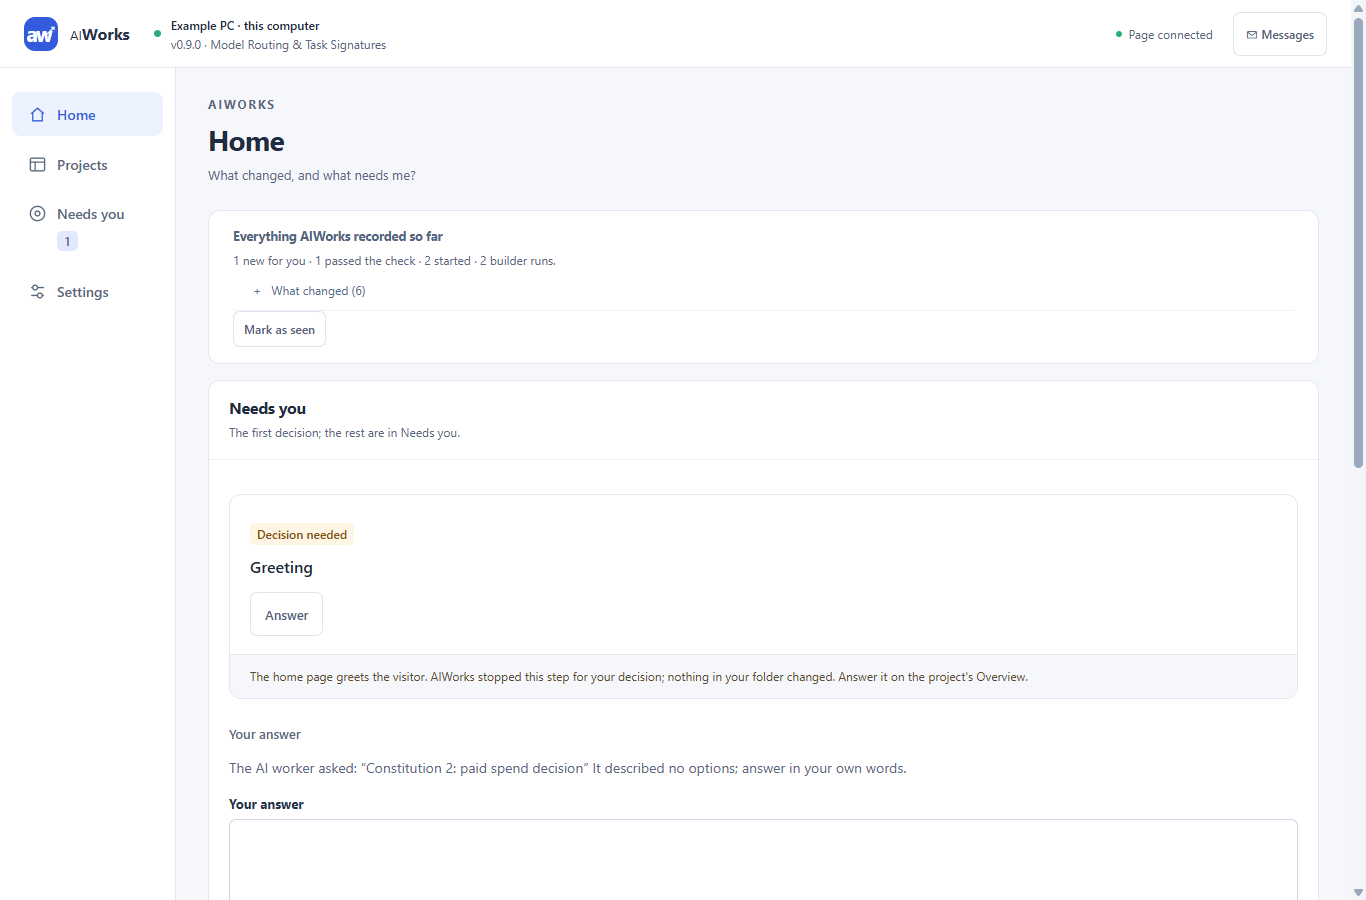
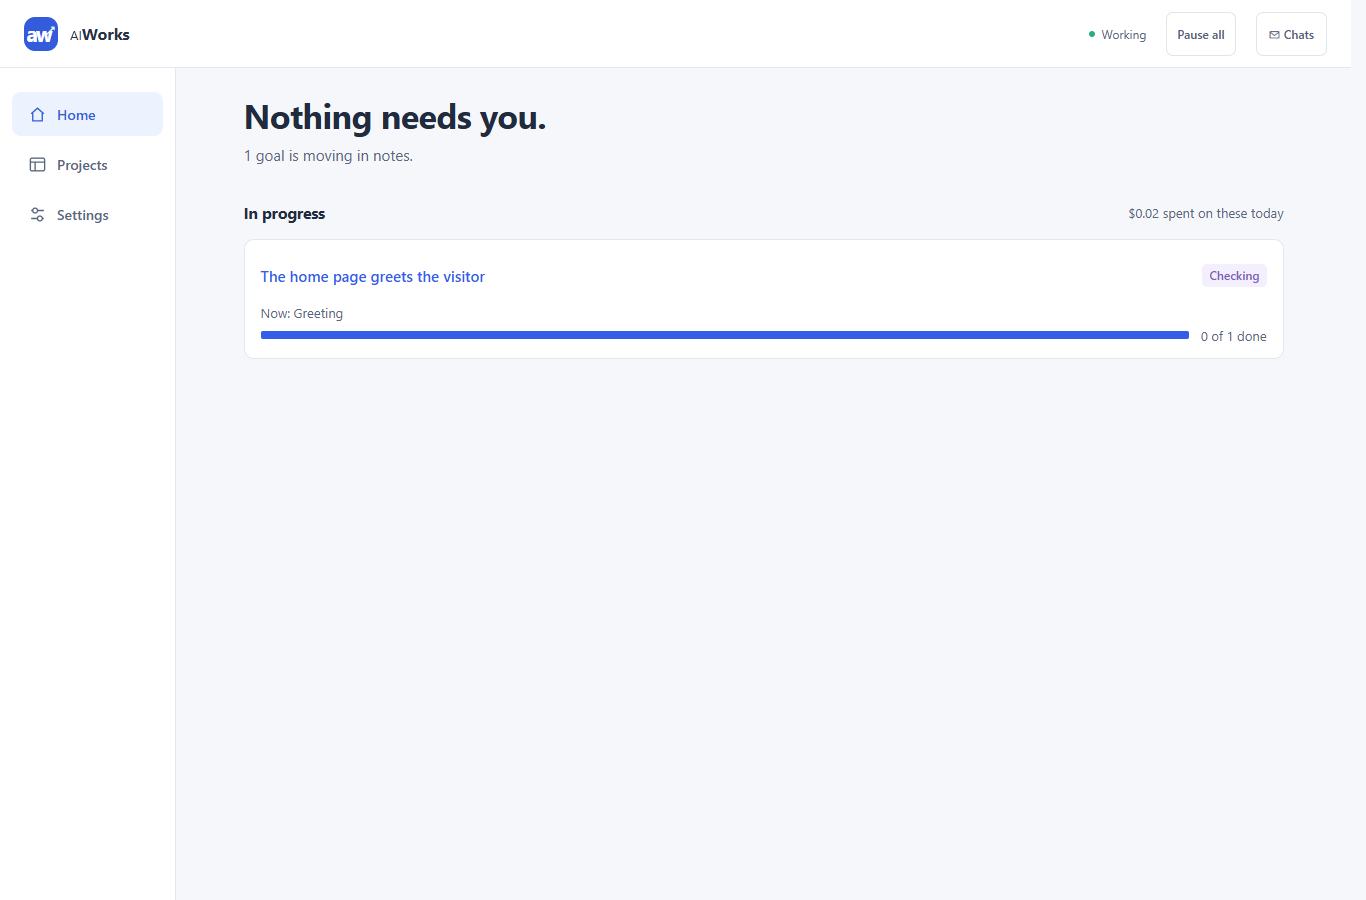
Status and showcase: answer change and goal links are built; screens from ea462d6
STATUS.md still listed changing a Home answer and the goal link as not
built; both landed in 8c1caea and 723502d. The static showcase is
recaptured from the owner journey on ea462d6 (52 steps ok, clean checkout)
and its text follows the current journey: automatic apply with Undo, a
step that decides for itself under AW-017, and local cost per step.

diff --git a/site/index.html b/site/index.html
@@ -27,11 +27,11 @@
 </header>
 
 <main id="content" tabindex="-1">
-  <h1>Plan once, check every result, decide only what needs you</h1>
-  <p class="lead">AIWorks is a manager for AI coding agents that runs on your own Windows computer. You approve a plan; an AI builder does each step in an isolated copy; a fresh AI session checks that exact version; and nothing in your folder changes until you press Apply.</p>
+  <h1>Plan once, check every result, undo any apply</h1>
+  <p class="lead">AIWorks is a manager for AI coding agents that runs on your own Windows computer. You approve a plan; an AI builder does each step in an isolated copy; a fresh AI session checks that exact version; only that checked version reaches your folder, and Undo apply puts the folder back.</p>
 
   <div class="notice" role="note">
-    <p><strong>Synthetic demonstration.</strong> Every screen below was captured from a disposable runtime with two fictional projects, <em>notes</em> (a plain folder) and <em>site</em> (a local Git repository), and a synthetic AI worker that makes no model or network call. The computer name in the header is replaced with “Example PC”.</p>
+    <p><strong>Synthetic demonstration.</strong> Every screen below was captured from a disposable runtime with two fictional projects, <em>notes</em> (a plain folder) and <em>site</em> (a local Git repository), and a synthetic AI worker that makes no model or network call.</p>
     <p>It is not an installation, nobody's real projects appear in it, and this page makes no claim about any installed or running copy of AIWorks.</p>
   </div>
 
@@ -47,19 +47,19 @@
 
   <section class="panel" id="journey" aria-labelledby="journey-title">
     <h2 id="journey-title">The owner journey</h2>
-    <p>The <a href="../docs/design/OWNER_JOURNEY_ACCEPTANCE.md">owner journey acceptance</a> runs 29 checked steps. These are the ones you can see. <span class="label demo">Shown in this demonstration</span> applies to every step in this section.</p>
+    <p>The <a href="../docs/design/OWNER_JOURNEY_ACCEPTANCE.md">owner journey acceptance</a> ran 52 checked steps, all passing. These are the ones you can see. <span class="label demo">Shown in this demonstration</span> applies to every step in this section.</p>
 
     <article class="step" aria-labelledby="s1">
       <div>
         <h3 id="s1">1. Start from nothing</h3>
-        <p>Home answers “What changed, and what needs me?”. With no projects it says so and offers Add project: an idea first, then a folder on this computer.</p>
+        <p>Home answers “What needs me, and what is moving?”. Before any project, nothing needs the owner and nothing is moving. A project is added from Projects: an idea first, then a folder on this computer.</p>
         <ul>
           <li>Confirming a project's rules is a protected owner action. It passed the Windows check that the request came from the owner's browser, not from an AI worker.</li>
           <li><span class="label off">Off by default</span> Add project needs <code>projectConnection.enabled</code>; planning and starting work from the page need <code>coordinator.intake</code>.</li>
         </ul>
       </div>
       <figure>
-        <a href="assets/home-empty.png"><img src="assets/home-empty.png" width="1366" height="900" alt="Home with no projects yet: Needs you says nothing needs you right now, and Projects offers Add project."></a>
+        <a href="assets/home-empty.png"><img src="assets/home-empty.png" width="1366" height="900" alt="Home with no projects yet: Nothing needs you, and nothing is moving right now."></a>
         <figcaption>Home, before any project. Open the image for full size.</figcaption>
       </figure>
     </article>
@@ -93,34 +93,33 @@
 
     <article class="step" aria-labelledby="s3">
       <div>
-        <h3 id="s3">3. Review the checked result, then Apply it yourself</h3>
-        <p>The builder worked in an isolated copy. A separate checker approved that exact version, and Review shows it, named by its commit.</p>
+        <h3 id="s3">3. The checked result is applied, and Undo puts it back</h3>
+        <p>The builder worked in an isolated copy. A separate checker approved that exact version, AIWorks applied it to the folder, and Review shows it, named by its commit.</p>
         <ul>
           <li>Try this version opens the checked pages in a sealed frame that cannot reach the dashboard or the internet. Desktop and phone screenshots of it were taken under the same containment as the workers.</li>
-          <li>Apply refused while the owner had changed the same file and wrote nothing; it then applied and kept an unrelated owner edit.</li>
+          <li>Undo apply put the folder back as it was before the automatic apply. Applying again by hand refused while the owner had changed the same file and wrote nothing; it then applied and kept an unrelated owner edit.</li>
           <li>Undo apply refused while the owner had edited an applied file, then put the folder back byte for byte.</li>
           <li>For the local Git project, Apply refused a dirty working tree, then fast-forwarded the branch; a builder that tried to press Apply from inside its job was refused.</li>
         </ul>
       </div>
       <figure>
         <a href="assets/result-review.png"><img src="assets/result-review.png" width="1366" height="900" alt="Review of a result: ready for your review, checked at a named commit, an Apply button, the checker's verdict and a Try this version panel showing the checked page."></a>
-        <figcaption>A result waiting on Review, with its preview open.</figcaption>
+        <figcaption>A checked result on Review after Undo, ready to apply again, with its preview open.</figcaption>
       </figure>
     </article>
 
     <article class="step" aria-labelledby="s4">
       <div>
-        <h3 id="s4">4. A step stops for your decision</h3>
-        <p>When a step needs the owner, it stops, nothing in the folder changes, and it appears in Needs you and on Home under its project.</p>
+        <h3 id="s4">4. A step decides for itself</h3>
+        <p>A builder that stopped to ask without offering options was sent back once to decide within its plan. It finished, and its result was checked again. Home kept saying that nothing needs the owner while the goal moved.</p>
         <ul>
-          <li>The answer was written on the project's Overview; its draft was kept across navigation.</li>
-          <li>The next builder run received the answer, and its result was checked again.</li>
-          <li>Checked by hand in the acceptance run: answering with the keyboard alone, Tab to Send answer, with a visible focus ring.</li>
+          <li>Routine choices are AIWorks's to make (decision AW-017); only the owner's own sign-in, credentials and payment are the owner's.</li>
+          <li><span class="label code">In the source code</span> A recorded answer can be changed from Home's Decided for you. This journey did not exercise it; it has its own tests.</li>
         </ul>
       </div>
       <figure>
-        <a href="assets/decision.png"><img src="assets/decision.png" width="1366" height="900" alt="Home with one item in Needs you: a decision needed on the Greeting step, with an Answer button and a text field for the answer."></a>
-        <figcaption>Home, with a decision waiting.</figcaption>
+        <a href="assets/decision.png"><img src="assets/decision.png" width="1366" height="900" alt="Home while a goal is checked: Nothing needs you, one goal moving in notes, its Greeting step being checked, and what it cost today."></a>
+        <figcaption>Home while the step is being checked.</figcaption>
       </figure>
     </article>
 
@@ -141,7 +140,7 @@
     <article class="step" aria-labelledby="s6">
       <div>
         <h3 id="s6">6. Alerts, rehearsed</h3>
-        <p>The decision raised an alert. The rehearsal transport recorded it on this computer as it would be sent: nothing was sent and nothing was reported delivered.</p>
+        <p>An alert raised during the journey was recorded by the rehearsal transport on this computer as it would be sent: nothing was sent and nothing was reported delivered.</p>
         <ul>
           <li>Alert rules, a Knowledge fact and the project budget were each saved through the same owner check.</li>
           <li><span class="label reserved">Owner-reserved</span> Real delivery needs a recipient the owner configures. None was configured.</li>
@@ -156,10 +155,10 @@
 
   <section class="panel" id="phone" aria-labelledby="phone-title">
     <h2 id="phone-title">On a phone</h2>
-    <p>Below 960px the navigation moves to the bottom. At a 320px window and a 390px phone, none of the 13 checked screens scrolled sideways.</p>
+    <p>Below 960px the navigation moves to the bottom. At a 320px window and a 390px phone, none of the checked screens scrolled sideways.</p>
     <div class="phones">
       <figure>
-        <a href="assets/phone-home.png"><img src="assets/phone-home.png" width="390" height="844" alt="Home on a 390 pixel phone: what changed, Needs you with nothing waiting, and the notes project with two checked results waiting for review."></a>
+        <a href="assets/phone-home.png"><img src="assets/phone-home.png" width="390" height="844" alt="Home on a 390 pixel phone: Nothing needs you, a link to the coordinator's reply, and both projects quiet and done."></a>
         <figcaption>Home at 390px.</figcaption>
       </figure>
       <figure>
@@ -178,8 +177,7 @@
         <tr><th scope="row">Real notification delivery</th><td data-label="Where it stands"><span class="label reserved">Owner-reserved</span> Needs a recipient and secret references the owner configures.</td></tr>
         <tr><th scope="row">Release destinations and a Publish button</th><td data-label="Where it stands"><span class="label reserved">Owner-reserved</span> Needs a specific grant; the button is not built.</td></tr>
         <tr><th scope="row">Opening the dashboard from another device</th><td data-label="Where it stands"><span class="label reserved">Owner-reserved</span> The dashboard answers on this computer only; remote access is not designed yet.</td></tr>
-        <tr><th scope="row">Model and cost per step for local work</th><td data-label="Where it stands">Not built yet for projects without GitHub. Their project budget does count their work.</td></tr>
-        <tr><th scope="row">A study with a person</th><td data-label="Where it stands">Not done. The journey is a scripted check by an AI implementer, not a usability study.</td></tr>
+                <tr><th scope="row">A study with a person</th><td data-label="Where it stands">Not done. The journey is a scripted check by an AI implementer, not a usability study.</td></tr>
         <tr><th scope="row">Real AI workers and their limits</th><td data-label="Where it stands">Not exercised: the demonstration's worker is synthetic.</td></tr>
       </tbody>
     </table>
@@ -203,7 +201,7 @@
 </main>
 
 <footer>
-  <p>Screens captured by <code>scripts/supervisor/owner-journey.mjs</code> from a source revision whose product code is the accepted owner-journey revision; how to capture them again is in <a href="README.md">site/README.md</a>. All projects, names and data on this page are fictional.</p>
+  <p>Screens captured by <code>scripts/supervisor/owner-journey.mjs</code> from source revision <code>808d8d1</code> on 2026-11-11, with all 52 journey steps passing; how to capture them again is in <a href="README.md">site/README.md</a>. All projects, names and data on this page are fictional.</p>
 </footer>
 </body>
 </html>

diff --git a/docs/STATUS.md b/docs/STATUS.md
@@ -38,7 +38,7 @@ Coordinator plans and replies stay in the local dashboard. Requests retain their
 | Merge gate, one group per gate run, owner acceptance mode ([AW-014](DECISIONS.md#aw-014---waiting-pull-requests-merge-as-one-group-after-one-gate-run), [AW-015](DECISIONS.md#aw-015---acceptance-controls-merging-when-the-owner-chooses-it)) | `src/supervisor/merge.mjs`, `merge-batch.mjs`, `merge-refresh.mjs` | `tests/supervisor/merge-gate.test.mjs`, `merge-refresh.test.mjs` | Built, off by default (`merges`, per repository). Merging is not deploying. |
 | Knowledge with provenance, owner controls, sample project, Usage | `src/supervisor/knowledge.mjs`, `sample-project.mjs`; `src/dashboard/knowledge.mjs` | `tests/supervisor/knowledge.test.mjs`, `tests/dashboard/knowledge.test.mjs`; owner journey | Built. Hosting and subscription costs are not tracked; Usage says so. |
 | Owner UI v2 screens WP1 to WP9 | `src/dashboard/`; [OWNER_UI_V2 section 7](design/OWNER_UI_V2.md#7-backend-coverage-in-source-observed) | `tests/dashboard/`; owner journey at 320 px and 390 px | Built. What needs the owner is answered on Home; `#/needs` opens Home. WP10 (remote access, phone push) is not built: see the open list. |
-| Home: goals, what needs the owner, and what landed | `src/dashboard/public/home.mjs`, `src/dashboard/owner.mjs`; [HOME_V2](design/HOME_V2.md) | `tests/dashboard/home-v2-data.test.mjs`, `tests/dashboard/home-v2-screen.test.mjs` | Built in source. The separate Needs you address opens Home. The whole-page check, undo of an answer, and a link to the goal itself are open: see the open list. |
+| Home: goals, what needs the owner, and what landed | `src/dashboard/public/home.mjs`, `src/dashboard/owner.mjs`; [HOME_V2](design/HOME_V2.md) | `tests/dashboard/home-v2-data.test.mjs`, `tests/dashboard/home-v2-screen.test.mjs` | Built in source. The separate Needs you address opens Home. A recorded answer can be changed from Decided for you, with the earlier answer and its provenance kept in the journal; a step that already used the answer gets one follow-up instead of a rewrite (`tests/supervisor/decisions.test.mjs`). A goal title opens that goal in its own project. The whole-page check is open: see the open list. |
 | Additional checks on another computer | `src/supervisor/check-services.mjs`; [check services](guides/check-services.md) | `tests/supervisor/check-services.test.mjs` | The client validates exact-revision receipts for additional checks. The managed helper always runs the required local contained gate and does not submit service jobs. |
 | Alerts: rules, quiet hours, the outbox, a rehearsal transport and a Telegram transport | `src/supervisor/alerts.mjs`, `alert-telegram.mjs`, `src/dashboard/alerts.mjs`; the outbox drain in `src/supervisor/controller.mjs` | Owner journey with the rehearsal transport. The alert test files were removed in the second test cut (2026-11-05) while alerts are off; they are in git history and return with the switch-on change | Built, nothing sent by default. A finished or cancelled goal's waiting alert is settled under its lease: retired as *No longer needed* when its blocker was resolved or nothing running waits on it, otherwise handled like any other; one cut off while sending stays *Arrival unknown*. A local project's alert names the project as the owner named it and the dashboard's actions. Real delivery is unavailable: see the open list. |
 | Preview of a checked version: static pages in a sealed frame, desktop and phone screenshots under containment | `src/supervisor/preview.mjs`, `preview-capture.mjs` | `tests/dashboard/preview.test.mjs`, `tests/supervisor/preview-capture.test.mjs`; owner journey | Built. |
@@ -70,8 +70,6 @@ Coordinator plans and replies stay in the local dashboard. Requests retain their
 | Self-hosting, cleanup, program waves and CAAM switched on (SELF13, CLN2, PROG5, the CAAM pilot) | Each is a runbook step on an installation, and PROG5 and the pilot need the owner's record or pilot | The installation's operator follows [SUPERVISOR.md section 6](SUPERVISOR.md#local-operation-rehearsal-switch-on-and-switch-back); not evidenced here |
 | Which revision an installation runs | Installation data is private | Check the installation's own status after an upgrade |
 | Home's whole-page check | [HOME_V2](design/HOME_V2.md) part 3 is planned: an independent look at the finished Home at desktop and phone width. The data and the screen are in source; that check has not been recorded | Run the check named there when Home is reviewed as a finished screen |
-| Undoing an answer on Home | No command reverses an owner answer ([HOME_V2](design/HOME_V2.md)) | Not built |
-| A Home link to the goal itself | The Home data names the project and not a goal address, so the goal link opens the project ([HOME_V2](design/HOME_V2.md)) | Not built |
 | A check service for a commit that is not on origin | A service fetches only from origin. A verifier's gate of a new head, and a merge-refresh gate, stay on this computer. Accepting a git bundle (`POST /v1/sources`) is described and not built ([check services](guides/check-services.md)) | Not built |
 | A check service that needs a token | Configuration holds no secret values, so a token is not supported ([check services](guides/check-services.md)) | Stays unsupported until a secret-store reference is designed and reviewed |
 

diff --git a/site/README.md b/site/README.md
@@ -41,7 +41,7 @@ Then copy from `<folder>/evidence` into `site/assets`:
 | `03-review-v2.png` | `plan-review.png` |
 | `08-plan.png` | `plan-versions.png` |
 | `04-review-preview.png` | `result-review.png` |
-| `05-home-decision.png` | `decision.png` |
+| `05-home-decided.png` | `decision.png` |
 | `06-releases-local.png` | `releases.png` |
 | `07-settings-alerts.png` | `alerts.png` |
 | `12-phone-home.png` | `phone-home.png` |
@@ -51,4 +51,4 @@ Look at every image before committing it, and update the page's text where a scr
 
 ## Current assets
 
-Captured on 2026-10-21 by the journey above, all 29 steps `ok`, from source commit `3eb287b`. Its product code (`src/`) is identical to the independently accepted owner-journey revision `fcb1282` and its merge `76700f5`; the only difference is the journey script's computer-name replacement in screenshots.
+Captured on 2026-11-11 by the journey above from source commit `808d8d1` with no uncommitted changes, all 52 steps `ok`. Home while a step is checked replaces the earlier decision screen: under AW-017 the journey's builder decides for itself, so no decision waits for the owner.
